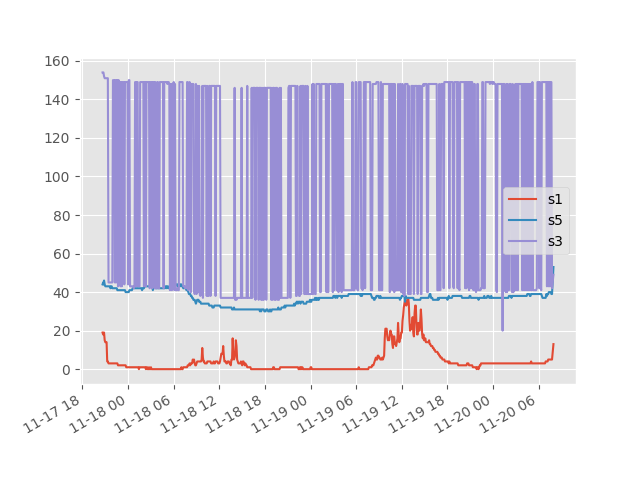
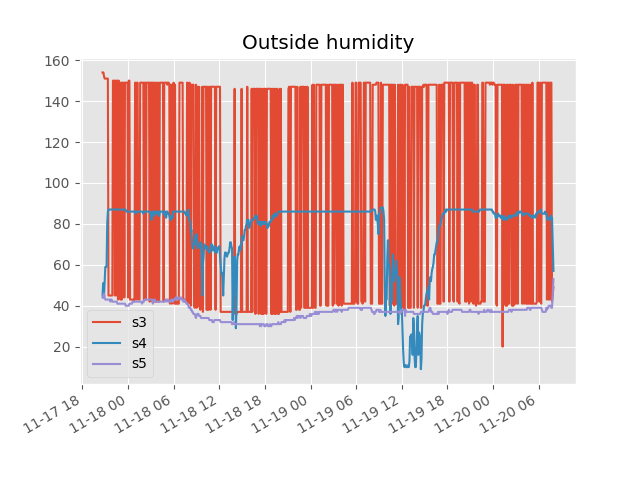
outdoor

diff --git a/Project_02_Weather_Station/README.md b/Project_02_Weather_Station/README.md
@@ -338,6 +338,14 @@ This graph helped us understand that the humidity in the room is too low for sen
 
 It made clear that the data from those sensors are not reliable and we decided to not use them in the rest of the project. We decided to use only the temperature data from the local sensors and the temperature and humidity data from the remote location.
 
+***Comparison with outdoor sensors:***
+After we got the data for outdoor sensors as described in the previous section, we wanted to compare them with the local sensors. We wanted to see how they differ and if there is any correlation between them. 
+First, we wanted to make sure that the data we got from the outdoor sensors are correct. We decided to graph them and see if they make sense. Here you can see sensors measurements for temperature and humidity for the date 27-20.11.2020:
+![temperature and humidity for outdoor sensors](Project_02_Images/temp_outdoor.png)
+![temperature and humidity for outdoor sensors](Project_02_Images/hum_outdoor.png)
+
+Unfortunately, some of the sensors are either broken or are on the bottom of upper limit of their range. We decided to use only the data from the sensor with id 2 for temperature and sensro with id 5 for humidiry, which are the only one that are working properly.
+
 ### Mathematical Modelling
 To adress the sixth success criteria, we had to create a mathematical model to predict its values for the next 12 hours. We were not sure whitch model to use, so we decided to create a function that allows us to easily compare different models and choose the best one.
 It looks like this:
